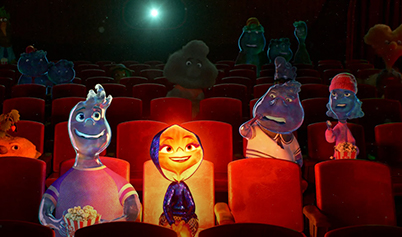
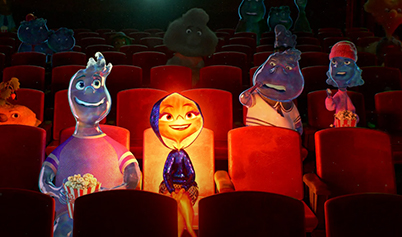
최종

diff --git a/css/default.css b/css/default.css
@@ -1221,7 +1221,7 @@ body.sticky {
 .test_screening .screen_cell:after {
   content: '';
   position: absolute;
-  background: linear-gradient(rgba(0, 0, 0, 0) 40%, rgba(0, 0, 0, .6) 100%);
+  background: linear-gradient(rgba(0, 0, 0, 0) 50%, rgba(0, 0, 0, .6) 100%);
   right: 0;
   left: 0;
   bottom: 0;
@@ -1232,11 +1232,6 @@ body.sticky {
   transform: scale(1.1);
 }
 
-.screen_cell figure {
-  position: relative;
-  background: linear-gradient(rgba(0, 0, 0, 0) 60%, rgba(0, 0, 0, .4) 100%);
-}
-
 .screen_cell figure:hover::after {
   content: '';
   position: absolute;
@@ -1244,7 +1239,6 @@ body.sticky {
   left: 0;
   right: 0;
   bottom: 0;
-  /* z-index: 2; */
 }
 
 /* 셀안의 h3 텍스트 효과  */

diff --git a/index.html b/index.html
@@ -844,7 +844,7 @@
             <li class="screen_cell">
               <figure>
                 <a href="#">
-                  <img src="images/elemental_normal.jpg" alt="엘레멘탈">
+                  <img src="images/elemental_normal.jpg" alt="엘리멘탈">
                 </a>
                 <figcaption>
                   <h3 class="cell_tt"> <span class="con_tt">영화</span> &lt; 엘리멘탈 &gt; 제작 스토리</h3>
